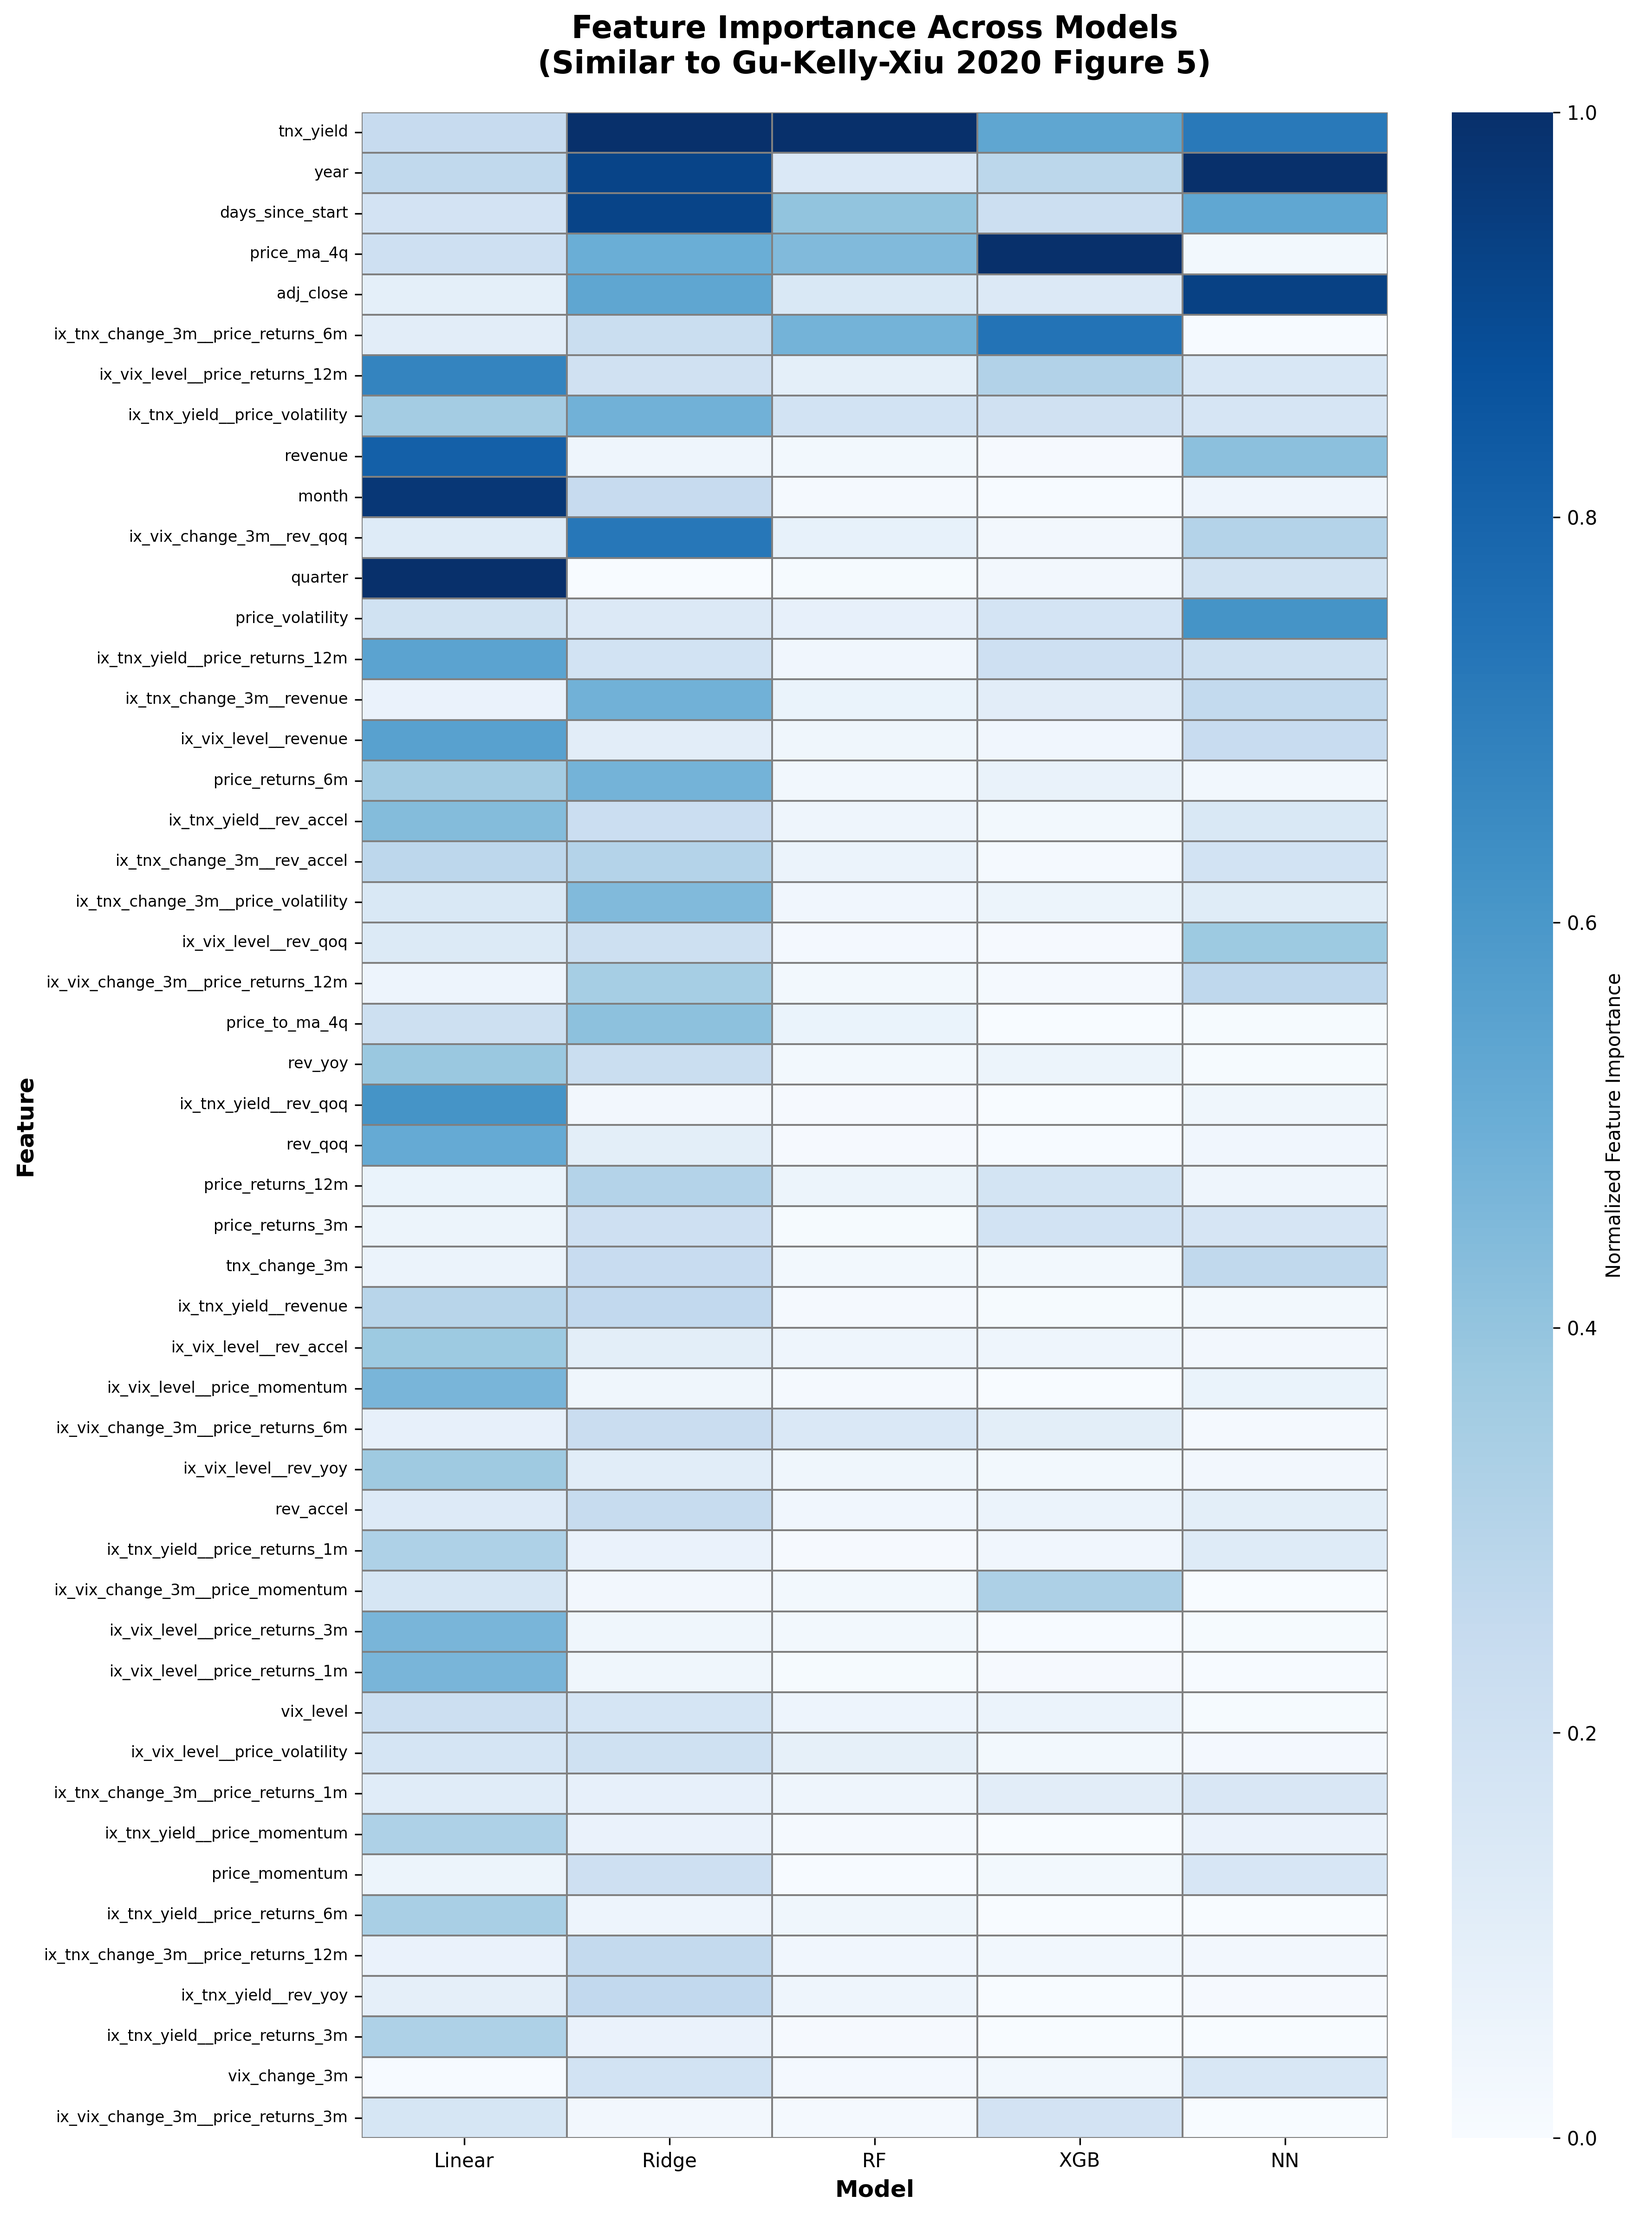
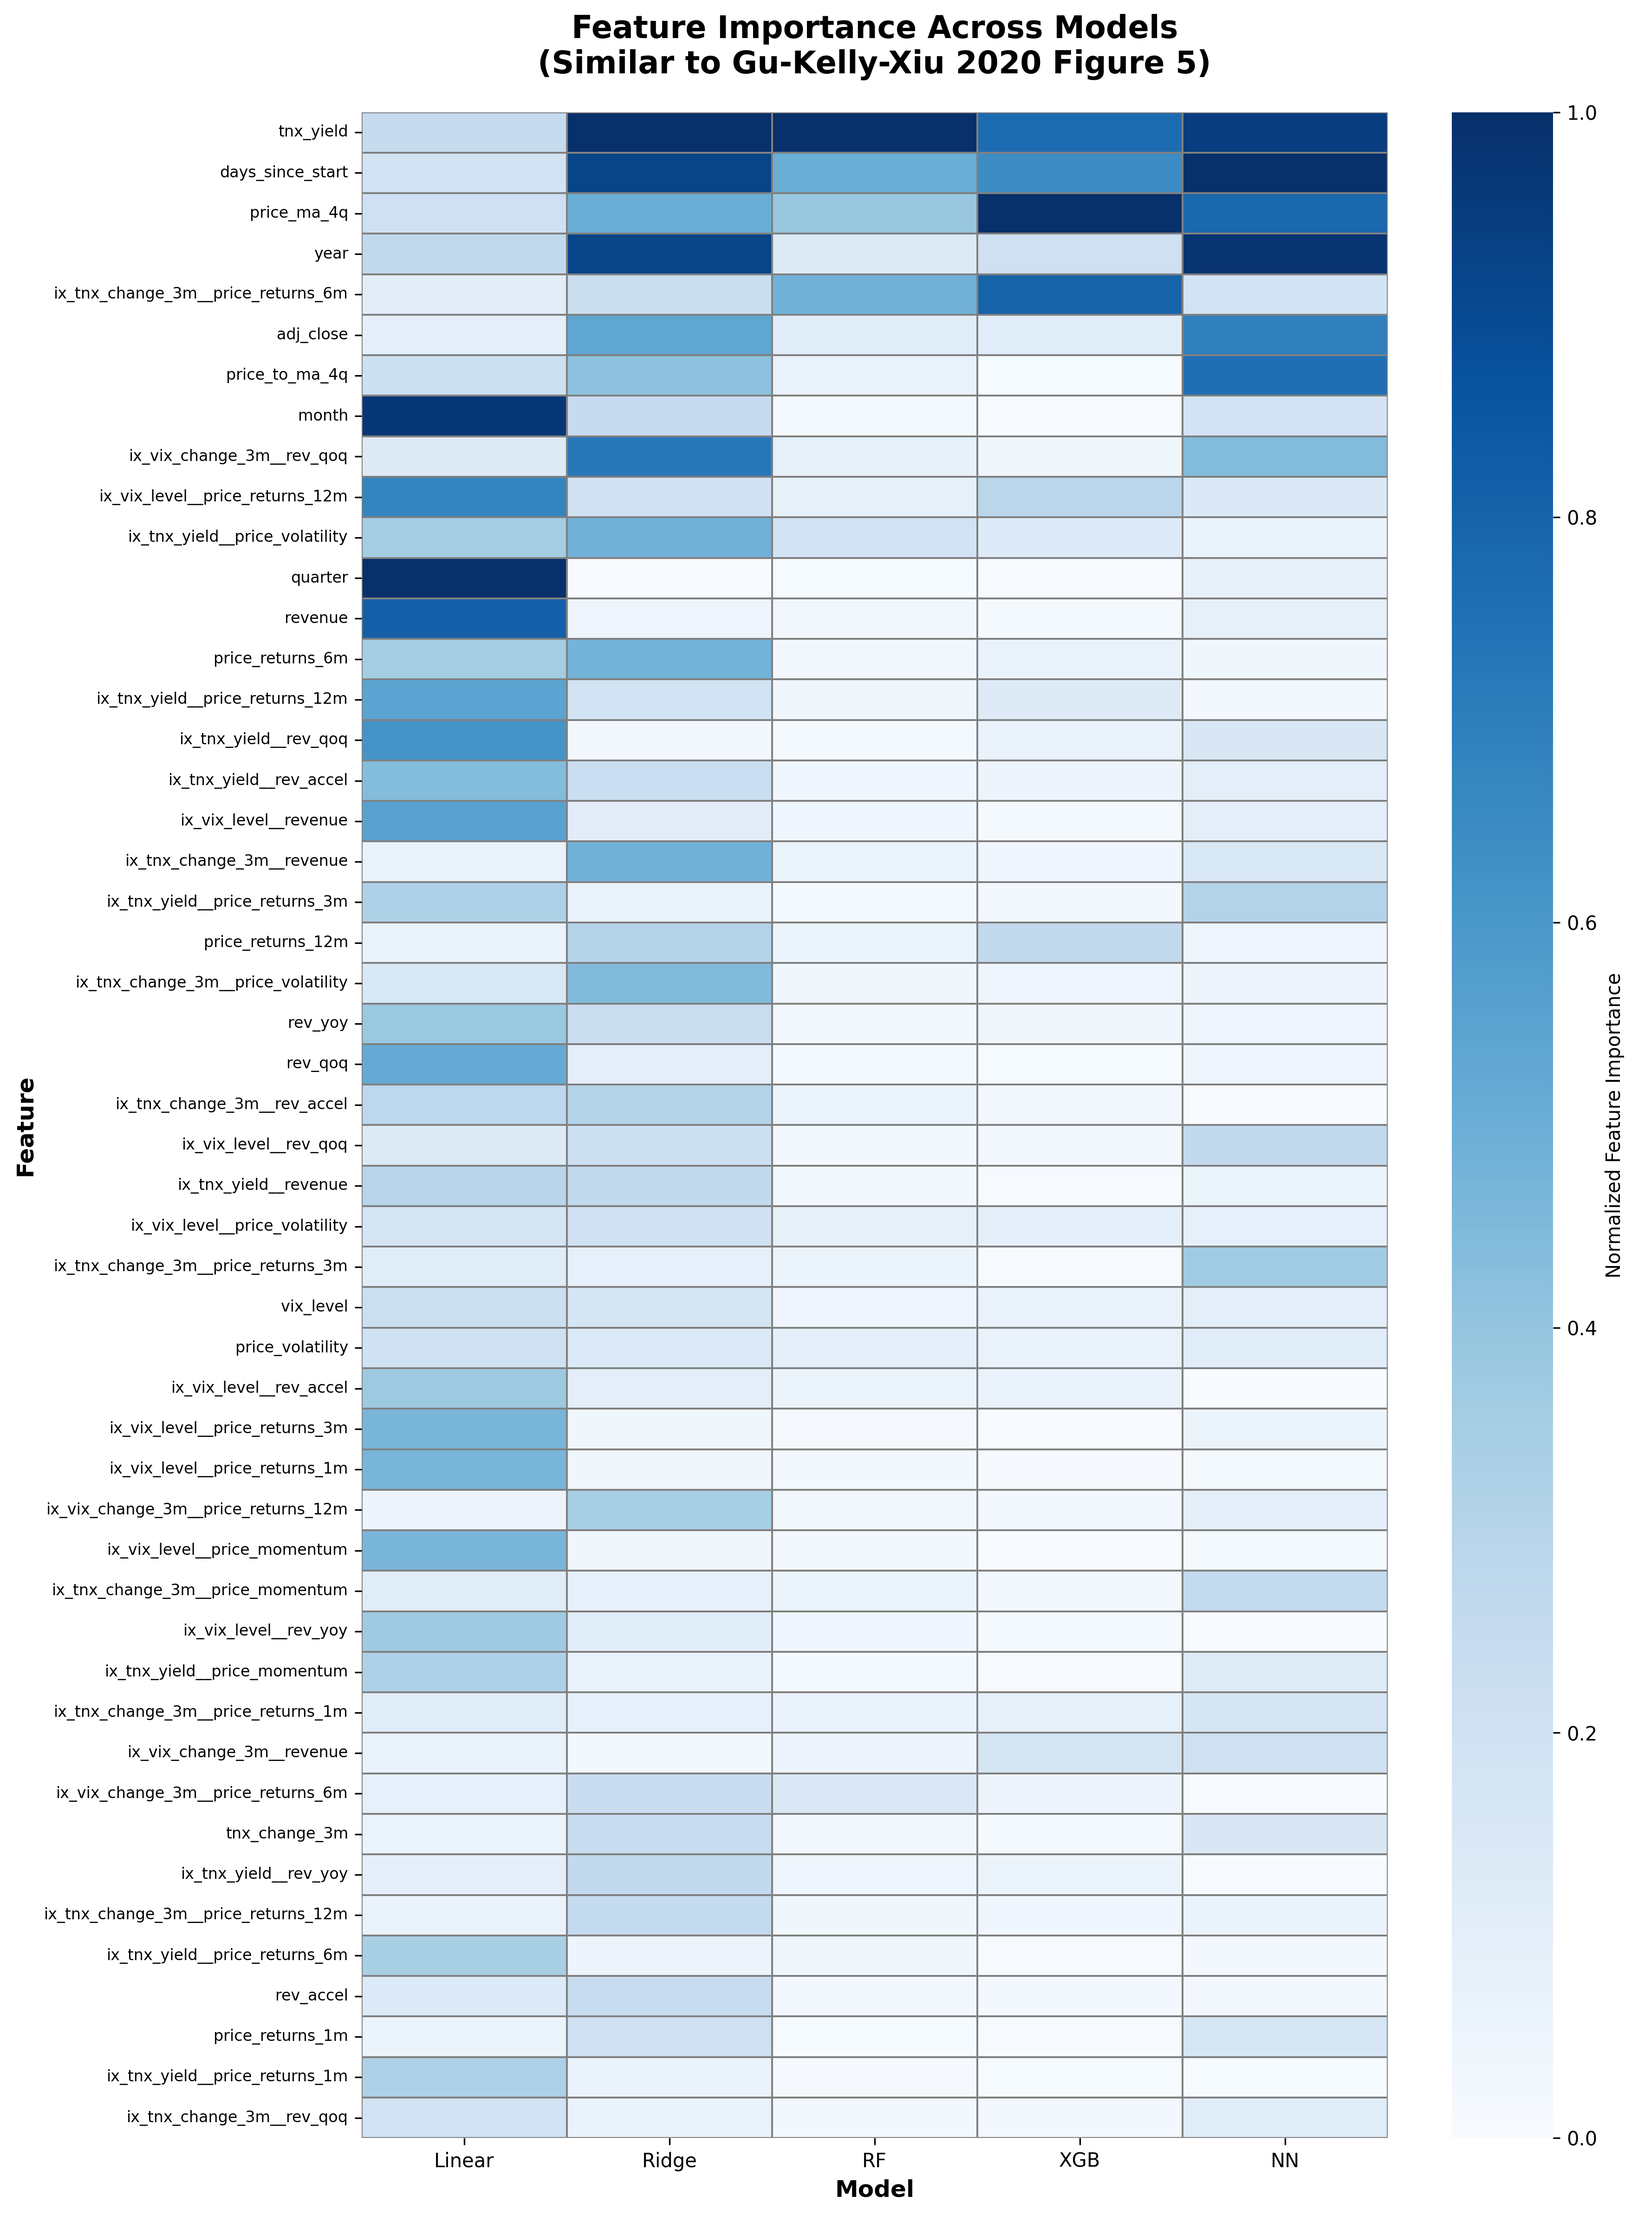
fix: regenerate heatmap with 61 legitimate features (no data leakage)
- Successfully exclude future_12m_price and future_12m_logprice
- Heatmap now shows 61 features instead of 63
- Top features: tnx_yield, days_since_start, price_ma_4q, year
- Fix scaler compatibility: use original features for transform, then drop leakage

diff --git a/create_feature_importance_heatmap.py b/create_feature_importance_heatmap.py
@@ -143,10 +143,15 @@ def create_importance_heatmap(
     # Load scaler first to get correct feature order
     models_path = Path(models_dir)
     scaler = joblib.load(models_path / "feature_scaler.pkl")
-    scaler_features = scaler.feature_names_in_ if hasattr(scaler, 'feature_names_in_') else feature_cols
+    # Get ORIGINAL scaler features (may include leakage features from old training)
+    scaler_features_original = scaler.feature_names_in_ if hasattr(scaler, 'feature_names_in_') else feature_cols
     
-    # Use only features that are in scaler
-    feature_cols = [f for f in feature_cols if f in scaler_features]
+    # CRITICAL: Filter out data leakage features for actual model training
+    # But keep original scaler_features for scaler.transform() which requires all features
+    scaler_features_for_training = [f for f in scaler_features_original if f not in leakage_features]
+    
+    # Use only legitimate features that are in scaler (after filtering leakage)
+    feature_cols = [f for f in feature_cols if f in scaler_features_for_training]
     
     # Prepare X and y
     X = df[feature_cols].copy()
@@ -157,7 +162,7 @@ def create_importance_heatmap(
     X = X[mask]
     y = y[mask]
     
-    print(f"After cleaning: {len(X)} samples, {len(feature_cols)} features")
+    print(f"After cleaning: {len(X)} samples, {len(feature_cols)} legitimate features")
     
     # Time-based split (same as training)
     train_mask = X.index < '2021-01-01'
@@ -172,24 +177,29 @@ def create_importance_heatmap(
     y_val = y[val_mask]
     y_test = y[test_mask]
     
-    # Align feature columns with scaler
-    X_train_aligned = X_train.reindex(columns=scaler_features, fill_value=0)
-    X_test_aligned = X_test.reindex(columns=scaler_features, fill_value=0)
+    # CRITICAL: Align with ORIGINAL scaler features (scaler.transform() needs all 63 features)
+    # Add leakage features as zeros for scaler compatibility, then drop them after scaling
+    X_train_aligned = X_train.reindex(columns=scaler_features_original, fill_value=0)
+    X_test_aligned = X_test.reindex(columns=scaler_features_original, fill_value=0)
     
-    # Scale data
+    # Scale data (scaler expects all original features including leakage)
     X_train_scaled = pd.DataFrame(
         scaler.transform(X_train_aligned),
         index=X_train_aligned.index,
-        columns=scaler_features
+        columns=scaler_features_original
     )
     X_test_scaled = pd.DataFrame(
         scaler.transform(X_test_aligned),
         index=X_test_aligned.index,
-        columns=scaler_features
+        columns=scaler_features_original
     )
     
-    # Update feature_cols to match scaler
-    feature_cols = list(scaler_features)
+    # CRITICAL: Remove data leakage features AFTER scaling (prevent data leakage)
+    X_train_scaled = X_train_scaled.drop(columns=leakage_features, errors='ignore')
+    X_test_scaled = X_test_scaled.drop(columns=leakage_features, errors='ignore')
+    
+    # Final feature list for model training (excludes leakage)
+    feature_cols = [f for f in scaler_features_original if f not in leakage_features]
     
     print(f"Data loaded: {len(X_train_scaled)} train, {len(X_test_scaled)} test samples")
     print(f"Features: {len(feature_cols)}")
